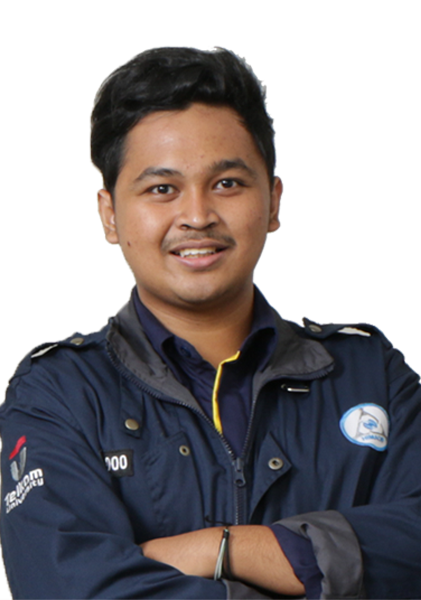
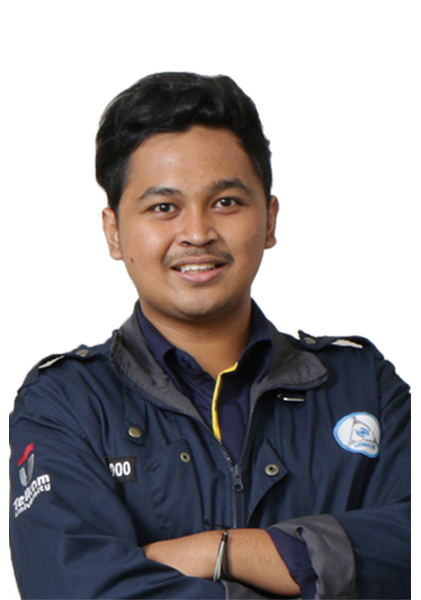
update: website image

diff --git a/index.html b/index.html
@@ -39,8 +39,7 @@
                         <a href="#about" class="nav-item nav-link">About</a>
                         <a href="#service" class="nav-item nav-link">Project</a>
                         <a href="#experience" class="nav-item nav-link">Experience</a>
-                        <a href="#portfolio" class="nav-item nav-link">Portfolio</a>
-                        <a href="#blog" class="nav-item nav-link">Blog</a>
+                        <a href="#blog" class="nav-item nav-link">Medium Post</a>
                         <a href="#contact" class="nav-item nav-link">Contact</a>
                     </div>
                 </div>
@@ -83,14 +82,14 @@
                 <div class="row align-items-center">
                     <div class="col-lg-6">
                         <div class="about-img">
-                            <img src="img/about.jpg" alt="Image">
+                            <img src="img/about.png" alt="Image">
                         </div>
                     </div>
                     <div class="col-lg-6">
                         <div class="about-content">
                             <div class="section-header text-left">
                                 <p>Learn About Me</p>
-                                <h2>Experience</h2>
+                                <h2>Information</h2>
                             </div>
                             <div class="about-text">
                                 <p>
@@ -239,115 +238,7 @@
         </div>
         <!-- Job Experience End -->
         
-        
-        <!-- Banner Start -->
-        <div class="banner wow zoomIn" data-wow-delay="0.1s">
-            <div class="container">
-                <div class="section-header text-center">
-                    <p>Reasonable Price</p>
-                    <h2>Get A <span>Special</span> Price</h2>
-                </div>
-                <div class="container banner-text">
-                    <p>
-                        Lorem ipsum dolor sit amet, consectetur adipiscing elit. Phasellus nec pretium mi. Curabitur facilisis ornare velit non vulputate. Aliquam metus tortor, auctor id gravida condimentum, viverra quis sem. Curabitur non nisl nec nisi scelerisque maximus. 
-                    </p>
-                    <a class="btn">Pricing Plan</a>
-                </div>
-            </div>
-        </div>
-        <!-- Banner End -->
 
-
-        <!-- Portfolio Start -->
-        <div class="portfolio" id="portfolio">
-            <div class="container">
-                <div class="section-header text-center wow zoomIn" data-wow-delay="0.1s">
-                    <p>My Portfolio</p>
-                    <h2>My Excellent Portfolio</h2>
-                </div>
-                <div class="row">
-                    <div class="col-12">
-                        <ul id="portfolio-filter">
-                            <li data-filter="*" class="filter-active">All</li>
-                            <li data-filter=".filter-1">Web Design</li>
-                            <li data-filter=".filter-2">Mobile Apps</li>
-                            <li data-filter=".filter-3">Game Dev</li>
-                        </ul>
-                    </div>
-                </div>
-                <div class="row portfolio-container">
-                    <div class="col-lg-4 col-md-6 col-sm-12 portfolio-item filter-1 wow fadeInUp" data-wow-delay="0.0s">
-                        <div class="portfolio-wrap">
-                            <div class="portfolio-img">
-                                <img src="img/portfolio-1.jpg" alt="Image">
-                            </div>
-                            <div class="portfolio-text">
-                                <h3>eCommerce Website</h3>
-                                <a class="btn" href="img/portfolio-1.jpg" data-lightbox="portfolio">+</a>
-                            </div>
-                        </div>
-                    </div>
-                    <div class="col-lg-4 col-md-6 col-sm-12 portfolio-item filter-2 wow fadeInUp" data-wow-delay="0.2s">
-                        <div class="portfolio-wrap">
-                            <div class="portfolio-img">
-                                <img src="img/portfolio-2.jpg" alt="Image">
-                            </div>
-                            <div class="portfolio-text">
-                                <h3>Product Landing Page</h3>
-                                <a class="btn" href="img/portfolio-2.jpg" data-lightbox="portfolio">+</a>
-                            </div>
-                        </div>
-                    </div>
-                    <div class="col-lg-4 col-md-6 col-sm-12 portfolio-item filter-3 wow fadeInUp" data-wow-delay="0.4s">
-                        <div class="portfolio-wrap">
-                            <div class="portfolio-img">
-                                <img src="img/portfolio-3.jpg" alt="Image">
-                            </div>
-                            <div class="portfolio-text">
-                                <h3>JavaScript quiz game</h3>
-                                <a class="btn" href="img/portfolio-3.jpg" data-lightbox="portfolio">+</a>
-                            </div>
-                        </div>
-                    </div>
-                    <div class="col-lg-4 col-md-6 col-sm-12 portfolio-item filter-1 wow fadeInUp" data-wow-delay="0.6s">
-                        <div class="portfolio-wrap">
-                            <div class="portfolio-img">
-                                <img src="img/portfolio-4.jpg" alt="Image">
-                            </div>
-                            <div class="portfolio-text">
-                                <h3>JavaScript drawing</h3>
-                                <a class="btn" href="img/portfolio-4.jpg" data-lightbox="portfolio">+</a>
-                            </div>
-                        </div>
-                    </div>
-                    <div class="col-lg-4 col-md-6 col-sm-12 portfolio-item filter-2 wow fadeInUp" data-wow-delay="0.8s">
-                        <div class="portfolio-wrap">
-                            <div class="portfolio-img">
-                                <img src="img/portfolio-5.jpg" alt="Image">
-                            </div>
-                            <div class="portfolio-text">
-                                <h3>Social Mobile Apps</h3>
-                                <a class="btn" href="img/portfolio-5.jpg" data-lightbox="portfolio">+</a>
-                            </div>
-                        </div>
-                    </div>
-                    <div class="col-lg-4 col-md-6 col-sm-12 portfolio-item filter-3 wow fadeInUp" data-wow-delay="1s">
-                        <div class="portfolio-wrap">
-                            <div class="portfolio-img">
-                                <img src="img/portfolio-6.jpg" alt="Image">
-                            </div>
-                            <div class="portfolio-text">
-                                <h3>Company Website</h3>
-                                <a class="btn" href="img/portfolio-6.jpg" data-lightbox="portfolio">+</a>
-                            </div>
-                        </div>
-                    </div>
-                </div>
-            </div>
-        </div>
-        <!-- Portfolio End -->
-        
-        
 
         <!-- Blog Start -->
         <div class="blog" id="blog">
@@ -404,14 +295,14 @@
 
 
         <!-- Footer Start -->
-        <div class="footer wow fadeIn" data-wow-delay="0.3s">
+        <div id="contact" class="footer wow fadeIn" data-wow-delay="0.3s">
             <div class="container-fluid">
                 <div class="container">
                     <div class="footer-info">
                         <h2>Muhammad Faisal Amir</h2>
                         <h3>Probolinggo - Jawa Timur, Indonesia</h3>
                         <div class="footer-menu">
-                            <p>081357108568</p>
+                            <p>+6281357108568</p>
                             <p>faisalamircs@gmail.com</p>
                         </div>
                         <div class="footer-social">
